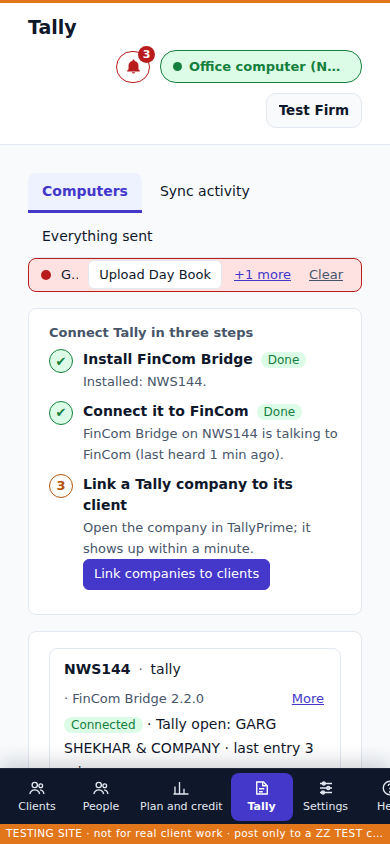
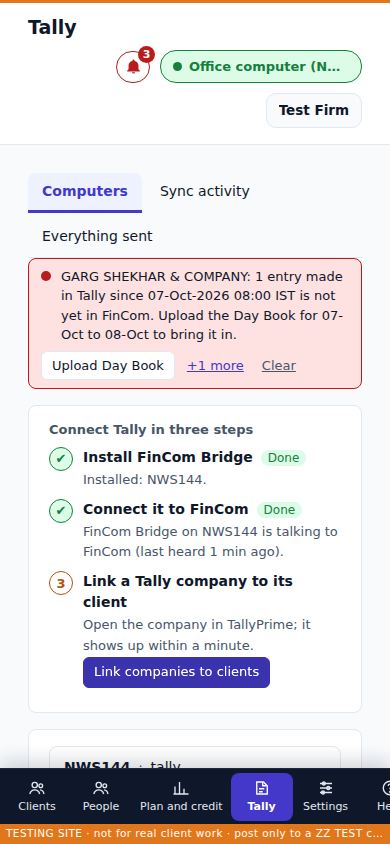
Phone alert line: the words on their own full-width line, the buttons on a row below (360 and 390 px); no sideways scroll
The line squeezed its sentence to a couple of letters at phone width. Tested first in
run_alerts_clear.py (words >= 80% of the line, whole sentence shown, buttons below, no scroll);
the Tally page's client tag also wraps at 360 px. Phone screenshots redone (390 and 360).

Claude-Session: https://claude.ai/code/session_01LprHoXx2ACgDW2AjxNH8wN

diff --git a/src/css/app.css b/src/css/app.css
@@ -1347,6 +1347,11 @@ table.lt tfoot td.lt-count b{color:var(--ink)}
 .al-snack .linkbtn{color:var(--brand-tint);min-height:28px;font-weight:600}
 /* a phone: the bell's list across the screen (16 px each side), whatever the bell's place in the top bar; the Undo above
    the bottom bar */
+/* a phone: the alert line's words on their own full-width line (never cut to a few letters), its buttons on a row below */
+@media (max-width:640px){.alert-line{flex-wrap:wrap;height:auto;white-space:normal;overflow:visible;padding:8px 12px;row-gap:6px;column-gap:10px}
+  .alert-line .al-dot{align-self:flex-start;margin-top:4px}
+  .al-line-text{flex:1 1 calc(100% - 20px);overflow:visible;text-overflow:clip;white-space:normal;overflow-wrap:break-word}
+  .tally-line{max-width:100%}.tally-line .tag{white-space:normal;max-width:100%;overflow-wrap:anywhere}}
 @media (max-width:640px){.alerts-panel{position:fixed;left:16px;right:16px;top:64px;width:auto;max-height:calc(100vh - 190px)}.al-acts{flex-wrap:wrap}.al-snack{bottom:112px}}
 /* round 3, part 2: the Tally sign says which computer; on a phone the dot and the computer's name */
 .tsign .tsign-long{max-width:440px;overflow:hidden;text-overflow:ellipsis}

diff --git a/tests/run_alerts_clear.py b/tests/run_alerts_clear.py
@@ -253,6 +253,21 @@ with sync_playwright() as p:
     pg3.evaluate(CLOSE)
     pg3.evaluate("() => { window.__w.cursor[0].gap.since = new Date(Date.now() - 2 * 86400e3).toISOString(); Rec.gaps.at = 0; AlertHub.reset(); AlertHub.refresh(true); }"); pg3.wait_for_timeout(1500)
     go(pg3, cid3, "tally")
+    # the alert line at phone width (360 and 390): the sentence on its own full-width line, the buttons on a row below;
+    # nothing cut off, no sideways scroll
+    LINE = """() => { const l = document.querySelector('#app [data-alert-line]'); if (!l) return null; const t = l.querySelector('.al-line-text');
+      const lr = l.getBoundingClientRect(), tr = t.getBoundingClientRect(), bs = [...l.querySelectorAll('button')].map(b => b.getBoundingClientRect());
+      return {lineW: lr.width, textW: tr.width, cut: t.scrollWidth > t.clientWidth + 1 || t.scrollHeight > t.clientHeight + 1, text: t.innerText, below: bs.every(b => b.top >= tr.bottom - 1),
+        inside: bs.every(b => b.left >= lr.left - 1 && b.right <= lr.right + 1), scroll: document.documentElement.scrollWidth > innerWidth}; }"""
+    for W in (360, 390):
+        pg3.set_viewport_size({"width": W, "height": 800}); pg3.wait_for_timeout(500)
+        go(pg3, cid3, "tally")
+        g = pg3.evaluate(LINE)
+        ok(g and g["textW"] >= 0.8 * g["lineW"], "phone %d: the alert's words get the line's width (%s)" % (W, g and (round(g["textW"]), round(g["lineW"]))))
+        ok(g and not g["cut"] and re.search(r"GARG SHEKHAR & COMPANY: .+ not yet in FinCom\. Upload the Day Book for .+\.", g["text"]), "phone %d: the whole sentence shown, nothing cut off (%r)" % (W, g and g["text"]))
+        ok(g and g["below"] and g["inside"], "phone %d: the buttons (action, Clear, +more) on a row below the words, inside the line" % W)
+        ok(g and not g["scroll"], "phone %d: no sideways scroll (%s)" % (W, g and g["scroll"] and pg3.evaluate("() => [document.documentElement.scrollWidth, ...[...document.querySelectorAll('#app *, header *')].filter(e => e.getBoundingClientRect().right > innerWidth + 1).slice(0, 6).map(e => e.tagName + '.' + e.className + ' ' + Math.round(e.getBoundingClientRect().right))]")))
+    pg3.set_viewport_size({"width": 390, "height": 800}); pg3.wait_for_timeout(400)
     line = pg3.evaluate("() => { const e = document.querySelector('#app [data-alert-line] [data-alert-clear]'); if (!e) return null; const r = e.getBoundingClientRect(); return [Math.round(r.left), Math.round(r.right), r.width > 0]; }")
     ok(line and line[0] >= 0 and line[1] <= 390 and line[2], "phone: the alert line's Clear inside the screen (%s)" % line)
     if line: pg3.click("#app [data-alert-line] [data-alert-clear]"); pg3.wait_for_timeout(900)

diff --git a/tests/shots_alerts_clear.py b/tests/shots_alerts_clear.py
@@ -33,7 +33,7 @@ H = functools.partial(http.server.SimpleHTTPRequestHandler, directory=SITE); H.l
 srv = http.server.ThreadingHTTPServer(("localhost", 8358), H); threading.Thread(target=srv.serve_forever, daemon=True).start()
 with sync_playwright() as p:
     br = p.chromium.launch()
-    for label, w, h in (("desktop", 1366, 800), ("phone", 390, 844)):
+    for label, w, h in [x for x in (("desktop", 1366, 800), ("phone", 390, 844), ("phone360", 360, 780)) if x[0] in (os.environ.get("SHOTS") or "desktop,phone,phone360").split(",")]:
         pg = br.new_page(viewport={"width": w, "height": h})
         pg.goto("http://localhost:8358/"); pg.wait_for_timeout(2500)
         if pg.locator('button[data-act="useOffline"]').count(): pg.click('button[data-act="useOffline"]'); pg.wait_for_timeout(1000)
